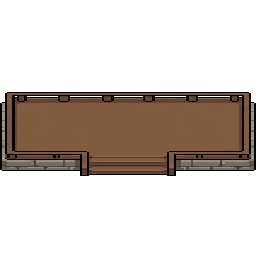
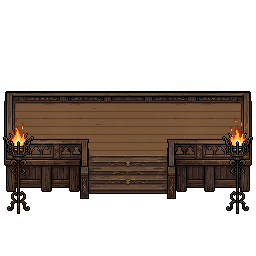
escena 1_2 cambiada

Changed region(s): [[0.0, 0.3438, 1.0, 0.8438]]

diff --git a/src/scenes/Scene_1_2.js b/src/scenes/Scene_1_2.js
@@ -25,12 +25,12 @@ export default class Scene_1_2 extends Phaser.Scene {
       .setDisplaySize(width, height * 0.30);
 
     // Edificios a los lados de la plaza
-    this.add.image(0, (height * 0.45) -30, 'plaza_lado_izq')
+    this.add.image(0, (height * 0.45) - 30, 'plaza_lado_izq')
       .setOrigin(0, 1)
       .setDepth(2)
       .setScale(3);
 
-    this.add.image(width, (height * 0.45) -30, 'plaza_lado_derecho')
+    this.add.image(width, (height * 0.45) - 30, 'plaza_lado_derecho')
       .setOrigin(1, 1)
       .setDepth(2)
       .setScale(3);
@@ -52,10 +52,10 @@ export default class Scene_1_2 extends Phaser.Scene {
     // ============================================
 
     // Posición donde el alcalde está de pie (sobre los adoquines)
-    const alcaldeY = height * 0.46;
+    const alcaldeY = height * 0.40;
 
     // Estructura/tarima - su parte superior donde "pisa" el alcalde
-    const estructura = this.add.image(centerX, alcaldeY -140, 'mayor_estructura')
+    const estructura = this.add.image(centerX, alcaldeY - 140, 'mayor_estructura')
       .setOrigin(0.5, 0)
       .setDepth(10)
       .setScale(1.1);